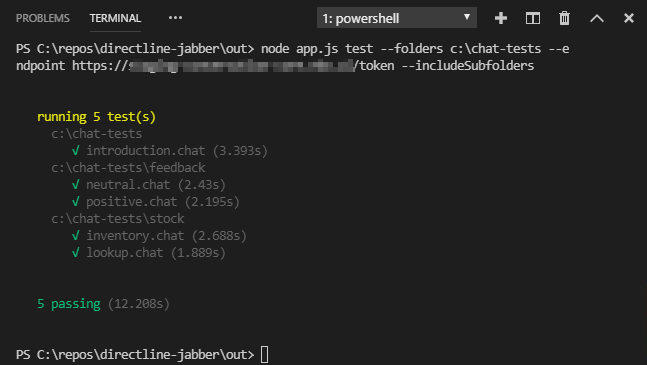
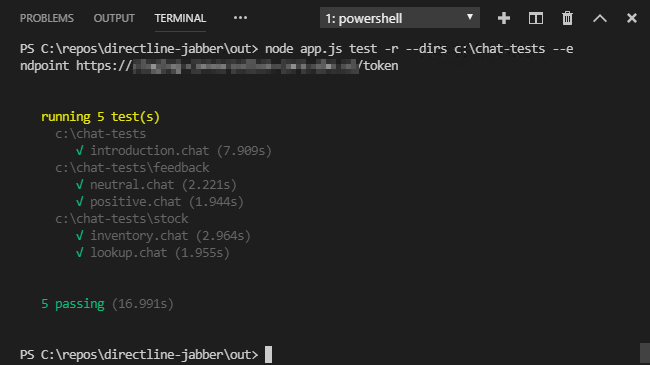
fix flags and v1.0.0

diff --git a/src/app.ts b/src/app.ts
@@ -13,21 +13,21 @@ class App {
           }
 
         commander
-            .version('0.1.0')
+            .version('1.0.0')
             .description('a tool that communicates over directline that will test your Chatdown conversations')
 
         commander
             .command('test')
-            .option('-fi, --files [files]', 'chatdown file(s) to test. Add multiple by comma seperating them.', commaSeparatedList)
-            .option('-fo, --folders [folders]', 'folder(s) with chatdown files to test', commaSeparatedList)
+            .option('-f, --files [files]', 'chatdown file(s) to test. Add multiple by comma seperating them.', commaSeparatedList)
+            .option('-d, --dirs [dirs]', 'directory or directories with chatdown files to test', commaSeparatedList)
             .option('-s, --secret [secret]', 'directline secret for authentication', null)
             .option('-e, --endpoint [endpoint]', 'endpoint to retrieve directline token', null)
-            .option('-isfo, --includeSubfolders', 'includes subfolders when scanning for chatdown files', true)
+            .option('-r, --recursive', 'includes subfolders when scanning for chatdown files', true)
             .option('-v, --verbose', 'enables verbose logging', false)
             .description('test a scenario using directline')
             .action(async function(options: any) {
-                if ((!options.files || options.files.length <= 0) && (!options.folders || options.folders.length <= 0)) {
-                    log.error('ERR', 'please specify chatdown file(s) (--files) and/or folder(s) (--folders) that contains your chatdown files');
+                if ((!options.files || options.files.length <= 0) && (!options.dirs || options.dirs.length <= 0)) {
+                    log.error('ERR', 'please specify chatdown file(s) (--files) and/or a directory (--dirs) that contains your chatdown files');
                     return;
                 }
 
@@ -47,7 +47,7 @@ class App {
                 var activityHandler = new ActivityHandler(requestHandler);
                 var transcriptGenerator = new TranscriptGenerator()
                 var processor = new Processor(activityHandler, transcriptGenerator);
-                await processor.start(options.files, options.folders, options.includeSubfolders);
+                await processor.start(options.files, options.dirs, options.recursive);
             });
 
         commander.parse(process.argv);

diff --git a/readme.md b/readme.md
@@ -4,7 +4,7 @@
 DirectLine-Jabber is a testing tool that communicates over the [DirectLine channel](https://docs.microsoft.com/en-us/azure/bot-service/bot-service-channel-connect-directline?view=azure-bot-service-4.0) to test your Microsoft BotFramework transcripts.
 This node.js application, written in typescript, reads your [Chatdown](https://github.com/Microsoft/botbuilder-tools/tree/master/packages/Chatdown) conversation file and sends all chat activity to DirectLine. It will try to match the expected text of the bot with the one in the conversation file. 
 
-The current release 0.1.0 is a beta release and only supports a limited scenario.
+The current release 1.0.0 supports a limited scenario with text and attachments only. Other scenario's with adaptive cards are scheduled for a later release.
 
 # Installation
 DirectLine-Jabber requires [Node.js](https://nodejs.org/) v10+ to run.
@@ -18,18 +18,18 @@ $ npm install
 
 Run examples:
 ```sh
-$ node app test --file <chatdownFilePath> --secret [directLineSecret] 
-$ node app test --folder <chatdownFolderPath> --endpoint [tokenEndpoint] 
+$ node app test --files <chatdownFilePath(s)> --secret [directLineSecret] 
+$ node app test --folders <chatdownFolderPath(s)> --endpoint [tokenEndpoint] 
 ```
 
 # Commandline arguments
-| Command | Alias | Description | Remarks
+| Command | Flag | Description | Remarks
 | --- | --- | --- | --- |
-| `--files` | `-fi` | chatdown file(s) to test. | Comma seperate for multiple
-| `--folders` | `-fo` | folder(s) with chatdown files to test | Comma seperate for multiple
+| `--files` | `-f` | chatdown file(s) to test. | Comma seperate for multiple
+| `--dirs` | `-d` | directory or directories with chatdown files to test | Comma seperate for multiple
 | `--secret` | `-s` | directline secret for authentication | Mutually exclusive with `endpoint`
 | `--endpoint` | `-e` | endpoint to retrieve directline token | Mutually exclusive with `secret`
-| `--includeSubfolders` | `-isfo` | includes subfolders when scanning for chatdown files' | defaults to `true`
+| `--recursive` | `-r` | recursivly scanning for chatdown files in directory' | defaults to `true`
 | `--verbose` | `-v` | enables verbose logging | defaults to `false`
 
 # Authentication
